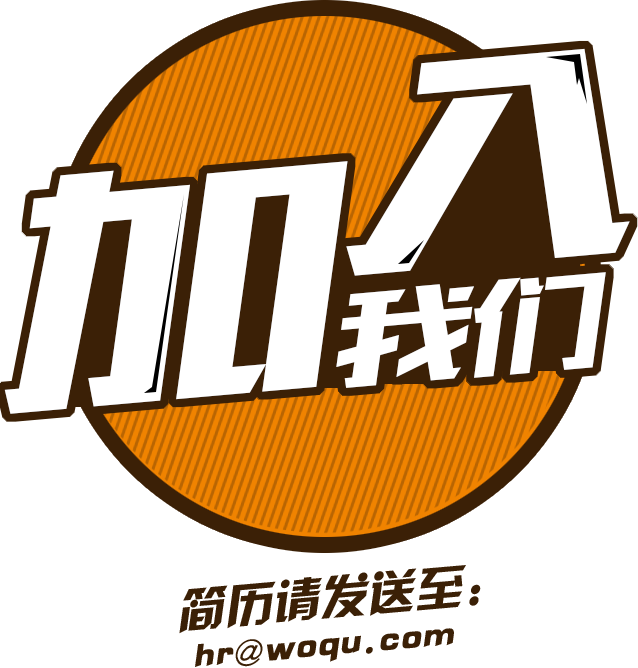
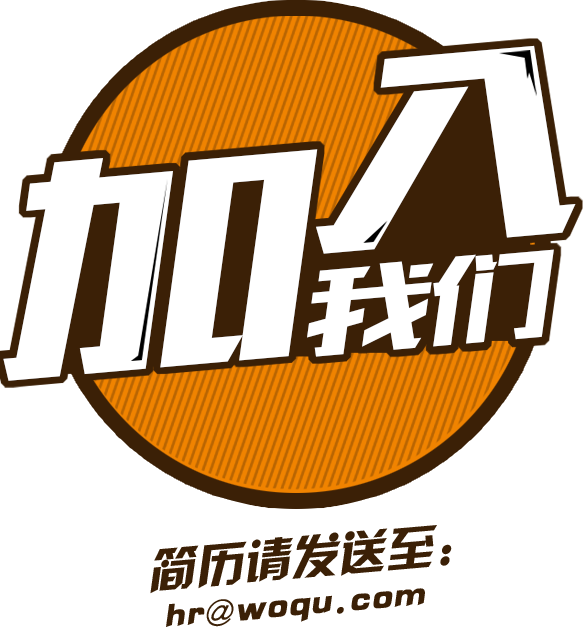
m

diff --git a/css/zhaopin.css b/css/zhaopin.css
@@ -1,6 +1,6 @@
-#frame01 {background: url(../img/index-bg.jpg) 0 0 / cover no-repeat;}
-.logo {width: 52.5%;padding-top: 2%;margin-left: 2%;}
-.banner {width: 100%;margin-top: 12.8%;}
+#frame01 {background-color: #fee801;}
+.logo {width: 47%;padding-top: 2%;margin-left: 2%;}
+.banner {width: 91.25%;margin-top: 3.5%;margin-left: 4.35%;}
 #frame02 {background-color: #14a2d4;} 
 #frame03 {background-color: #af5e9c;}
 #frame04 {background-color: #00b16a;}
